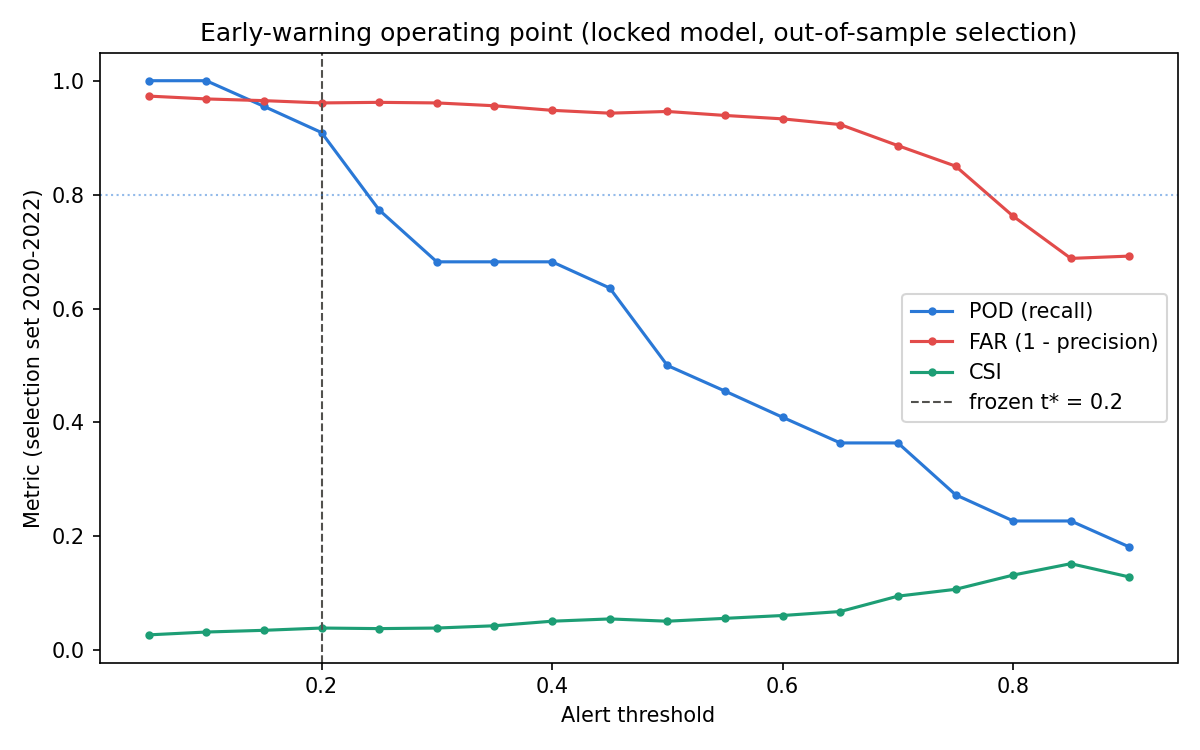
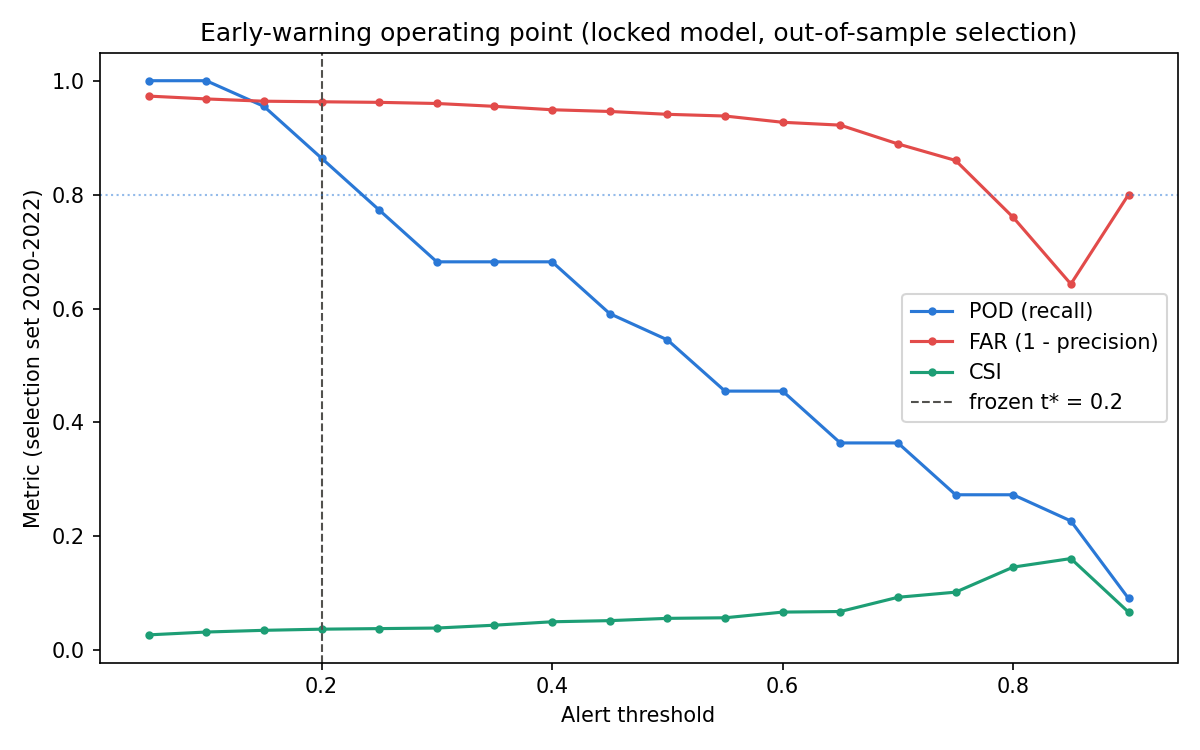
Docs: leak-free numbers; withdraw t=0.60 lift; mark results not re-run
Claude-Session: https://claude.ai/code/session_019qugKZoFUV2rvdqeagrEFM

diff --git a/notes/S1_NUMBERS_SHEET.md b/notes/S1_NUMBERS_SHEET.md
@@ -1,4 +1,4 @@
-# Current numbers on the lab-consistent label (S1), 2026-09-23
+# Current numbers on the lab-consistent label (S1), leak-free (2026-09-28)
 
 Every number here comes from a re-run output file on the default (S1) path. The source file is
 given for each group. The rationale and history are in `notes/LABEL_REBUILD_PREREG.md` §§10-15.
@@ -19,60 +19,72 @@ temporary low in 2012-2017 (lab exceedance share 0.03-0.07, against 0.10-0.23 be
 after). The TMDL attribution was withdrawn on 2026-09-05; the "lab-change" reading was withdrawn
 on 2026-09-23.
 
-## Headline, 28-day label, single split (`data/test_predictions.csv`, `data/label_rebuild_results.csv`)
-- Test 2023-2025: 1,034 station-days, 65 events, base rate **6.3%** (was 7.2%).
-- AUC **0.804** [0.706, 0.878] (was 0.815).
-- At t=0.60: precision **0.316** [0.179, 0.424] (was 0.500); recall **0.477** (was 0.486);
-  **31 TP / 67 FP / 34 FN** (was 36/36/38 of 74); lift **5.03** [3.50, 6.88] (was 6.99).
-- Training bloom rate **5.5%** (was 22.7%); validation 3.1%.
-- Lab-only check S4: AUC **0.782 [0.595, 0.921]** on 161 test rows / 15 events. It is too small to
-  stand alone until DEEP's post-June-2024 lab data arrive.
-- All seven pre-registered predictions were right.
+## Leak fix, 2026-09-28 (read this first)
+Four locked features were anomalies against full-record (1993-2025) climatologies, so test-period
+data leaked into training rows: `chl_climatology`, `chl_anomaly` (station-month chlorophyll) and
+`tidal_gt_anom`, `tidal_msl_anom` (monthly tides). They are now causal: each row uses only data dated
+strictly before it (`label_rebuild.py causal_climatology`, `add_tidal_features.py`). The 28-day label
+is now right-censored (windows past a station's last visit are dropped, not scored 0), and its
+operating threshold is chosen on validation by the pre-registered rule. The fixes were first found on
+the `worktree-climatology-fix` branch (2026-08-26) and never merged; that branch is archived as a tag.
+Numbers marked **(pre-leak-fix, not re-run)** below come from the 2026-09-23 run.
 
-## Per-station, western five, global t=0.60 (`data/rerun_station_specific_models.log`)
+## Headline, 28-day label, single split (`data/test_predictions_S1.csv`, `data/rerun2_*.log`)
+- Test 2023-2025: **951** station-days (83 unresolvable windows dropped), **65** events, base **6.8%**.
+- AUC **0.789** [0.690, 0.864] (station-year clustered bootstrap). Before the fix: 0.804 on 1,034 rows.
+- **Operating threshold (pre-registered rule on validation: highest t with 2020-22 POD >= 0.80):
+  t* = 0.25** (validation POD 0.848). Test: precision **0.119** [0.072, 0.166], recall **0.846**
+  [0.706, 0.950], lift **1.74** [1.46, 2.04]; 55 TP / 408 FP / 10 FN.
+- **t = 0.60 is withdrawn as an operating point:** it was picked on the 2023-25 test sweep, so its
+  numbers are not independent. For reference only, at 0.60: precision 0.329 [0.171, 0.444], recall
+  0.415, lift 4.82 [3.13, 6.76] (was 0.316 / 0.477 / 5.03).
+- Significance (exploratory, not pre-registered): block (station) permutation p < 0.001; better than a
+  month-of-year baseline by +0.093 AUC [-0.008, +0.207], one-sided p = 0.033. Within-season timing
+  (station-year shift p = 0.06; June-Sept p = 0.64) was measured before the fix, not re-run.
+- Training bloom rate 5.5%; validation 3.1%.
+- Lab-only check S4: AUC **0.781** on 161 test rows / 15 events; at its validation t* = 0.25,
+  precision 0.224, recall 0.733, lift 2.41. Too small to stand alone.
+
+## Per-station, western five, global t=0.60 (`data/rerun2_station_specific_models.log`)
+Reference only (0.60 was a test-chosen threshold).
 | Station | Base rate | Precision | Recall | TP/FP/FN |
 |---|---|---|---|---|
-| A4 | 20.0% | 0.333 | 0.875 | 7/14/1 |
-| B3 | 20.0% | 0.333 | 0.625 | 5/10/3 |
+| A4 | 20.0% | 0.368 | 0.875 | 7/12/1 |
+| B3 | 20.0% | 0.357 | 0.625 | 5/9/3 |
 | C1 | 12.5% | 0.444 | 0.800 | 4/5/1 |
 | 01 | 16.7% | 0.500 | 0.667 | 2/2/1 |
-| 02 | 27.8% | 0.429 | 0.600 | 3/4/2 |
+| 02 | 27.8% | 0.500 | 0.400 | 2/2/3 |
 
-No western station and strategy clears precision > 0.50 with recall > 0.40. The old C1 1.000 is gone.
+No western station and strategy clears precision > 0.50 with recall > 0.40.
 
 ## 21-day operating point
 - Locked fit ≤2019, test 2023-25 station-day (`data/reference_baselines.csv`): 954 rows, 43 events,
-  base 4.5%. Model at t*=0.35: precision **0.117**, POD **0.744**, FAR 0.883, lift **2.59** (was
-  0.132 / 0.917 / 2.63 on 956 rows / 48 events). Against always-alert: lift difference +1.59
-  [1.07, 2.22], clearly better. Persistence: precision 0.164, POD 0.279, lift 3.65. Against
-  climatology it was **not tested fairly under S1**: climatology's own validation-chosen threshold
-  degenerated to t=0, so it equals always-alert. Keep the original statement, "not clearly better
-  than climatology".
-- Walk-forward CV predictions at t*=0.35, test 2023-25 (`warning_robustness.py`): POD **0.791**
-  [0.636, 0.906], precision **0.114** [0.063, 0.163], FAR 0.886, 34 TP / 265 FP / 9 FN, base 4.2%,
-  lift ~2.7 (was POD 0.875, precision 0.125, base 4.6%).
-- **Open decision:** re-applying the pre-registered "highest t with CV-selection POD ≥ 0.8" rule
-  on S1 gives t*=**0.20** (test POD 0.907, precision 0.072). Deploy keeps the frozen 0.35 until the
-  user decides. Say "open" wherever t* is discussed.
-- Pooled 21-day rolling-origin CV (`rolling_origin_cv.py --horizon 21`): AUC **0.772**, 3,653 rows /
-  121 events, test years 2016-2025 (was 0.852, 4,040 / 156, 2015-2025).
+  base 4.5%. Model at t*=0.35: precision **0.112**, POD **0.628**, FAR 0.888, lift **2.48** (before the
+  fix 0.117 / 0.744 / 2.59). Against always-alert: +1.45 [0.78, 2.20], clearly better. Persistence:
+  precision 0.164, POD 0.279, lift 3.65. Climatology: not tested fairly (its validation threshold
+  degenerates to t=0). Keep "not clearly better than climatology".
+- Walk-forward CV predictions at t*=0.35, test 2023-25 (`warning_robustness.py`): POD **0.698**
+  [0.500, 0.836], precision **0.111** [0.057, 0.164], FAR 0.889, 30 TP / 240 FP / 13 FN, base 4.2%,
+  lift ~2.6 (before the fix 0.791 / 0.114).
+- **Open decision (unchanged):** the pre-registered POD ≥ 0.8 rule gives t*=**0.20** (test POD
+  **0.837**, precision **0.071**). Deploy keeps 0.35 until the user decides.
+- Pooled 21-day rolling-origin CV (`rolling_origin_cv.py --horizon 21`): AUC **0.759**, 3,653 rows /
+  121 events (before the fix 0.772).
 
 ## Basin level
-- Basin-day (`reference_baselines.csv`): model t=0.65, lift **2.14** (41 days, 9 events);
-  persistence 2.10; against always-alert +0.43 [−1.00, 1.77], not clear (was model 1.37, persistence
-  1.81, 12 events). Say "a tie with persistence".
-- Basin search (`data/basin_search_result.csv`, 912 cells, 200-shuffle null): best validation lift
-  **2.05×** at the **70.5th percentile** of the null (median 1.79×, 95th percentile 2.86×): inside
-  the null, so the search found noise. Test lift 1.56× (was 1.84× at the 52nd percentile, null median
-  1.83×, 95th 3.01×).
+- Basin-day (`reference_baselines.csv`): model t=0.65, lift **1.63** (41 days, 9 events); persistence
+  2.10; against always-alert +0.14 [−1.00, 1.45], not clear (before the fix 2.14). Say "a tie with
+  persistence".
+- Basin search **(pre-leak-fix, not re-run)**: best validation lift 2.05× at the 70.5th percentile of
+  the null, inside it: the search found noise.
 
-## Decision value, 8 visits/month (`data/decision_value.csv`)
+## Decision value, 8 visits/month (`data/decision_value.csv`) **(pre-leak-fix, not re-run)**
 - LIS: calendar **17.8** [9.6, 55.0] → alert-directed top-V **9.7** [5.5, 26.6] visits per bloom;
   causal 7.8 [3.9, 40.4]; climatology **11.2** [5.7, 53.2]; share caught 0.28 → 0.51; **43** blooms
   (was 15.4 → 8.3, climatology 9.3, 0.29 → 0.54, 48 blooms).
 - Narragansett unchanged: 3.81 → 1.45, climatology 1.76.
 
-## IEC zero-shot transfer (`data/iec_zero_shot_results.csv`, primary 2020-25 onset, 949 rows, 126 events)
+## IEC zero-shot transfer **(pre-leak-fix, not re-run)** (`data/iec_zero_shot_results.csv`, primary 2020-25 onset, 949 rows, 126 events)
 - Lift **1.57** [1.41, 1.75]; AUC **0.707** [0.656, 0.760] (was 1.84 [1.59, 2.11], AUC 0.732).
 - Station-month climatology: lift 1.50, AUC 0.733. It **transfers better than chance and no better
   than a calendar.** 4 of 13 stations have a lift interval above 1 (was 5 of 13). It is inside the
@@ -80,7 +92,7 @@ No western station and strategy clears precision > 0.50 with recall > 0.40. The 
 - IEC chlorophyll method: Standard Methods 10200H through 2016, both in 2017, EPA 445.0 from 2018
   on. That is before the 2020-25 window, so the transfer is unaffected.
 
-## Class overlap and rarity (`data/lr_geometry_summary.csv`, onset rows, 21 d)
+## Class overlap and rarity (`data/lr_geometry_summary.csv`, onset rows, 21 d) **(pre-leak-fix, not re-run)**
 - LIS: base **0.026**, AUC 0.770, OVL **0.620**, precision 0.055, POD 0.667 (was 0.036, 0.855, 0.445,
   0.112, 0.868).
 - Narragansett unchanged: 0.347, 0.810, OVL 0.516, precision 0.641.
@@ -92,7 +104,7 @@ No western station and strategy clears precision > 0.50 with recall > 0.40. The 
   The fork's LIS reference is now precision 0.117, AUC 0.825 (21-day station-day test), base 0.045,
   lift 2.59.
 
-## Point of no return (`data/ponr_rows.csv`)
+## Point of no return (`data/ponr_rows.csv`) **(pre-leak-fix, not re-run)**
 544 pre-onset observations / 153 events (was 617). Analogue risk peak **0.42**, median 0.02 (was 0.62 /
 0.04). Summer model counterfactual (M1 nutrients) 42% of events "locked in" → **0%** once physics
 can vary (was 65% → 0%). The conclusion is unchanged: no point of no return.

diff --git a/README.md b/README.md
@@ -10,25 +10,31 @@ Vihaan Goyal, Westhill High School, Stamford, Connecticut
 
 ## What this project shows
 
-A regularized logistic regression forecasts chlorophyll-a exceedances (>10 ug/L within 21 days of a station visit) across Long Island Sound with useful ranking skill (pooled out-of-sample AUC 0.772; was 0.852 on the original sensor label), but alert precision is capped near 0.12 regardless of model class, feature set, threshold, era, or spatial alerting policy. Thirteen pre-registered improvement attempts were rejected (sensor label; not re-run). The central finding is that this precision ceiling is mechanistic, not a modeling failure:
+A regularized logistic regression forecasts chlorophyll-a exceedances (>10 ug/L within 21 days of a station visit) across Long Island Sound with useful ranking skill (pooled out-of-sample AUC 0.759 after the 2026-09-28 leak fix; 0.772 before it, 0.852 on the original sensor label), but alert precision is capped near 0.12 regardless of model class, feature set, threshold, era, or spatial alerting policy. Thirteen pre-registered improvement attempts were rejected (sensor label; not re-run). The central finding is that this precision ceiling is mechanistic, not a modeling failure:
 
 1. **Rarity.** Exceedances are rare in the test years (4.5% of station-days at the 21-day horizon), and rare events cap precision regardless of model. The low precision is mostly rarity, not only (the Sound also separates the classes less well, overlap 0.62 against 0.52 in Narragansett Bay). The old "2014 cliff" (sensor-label bloom share 0.42–0.59 in 2009–2013 → 0.03–0.11 from 2014) was mostly a CTD sensor scale change (SeaBird to YSI EXO2 around 2009/2010), confirmed by CT DEEP; the lab record has no 2014 step, but it does show a real, temporary low in 2012–2017. It is not a TMDL effect and not a DEEP lab change.
 2. **Sampling.** The median gap between chlorophyll measurements is 21 days, equal to the forecast horizon. 48% of inter-sample gaps exceed the horizon, so many predicted events cannot even be verified.
 
-Across eras and label definitions the system delivered a roughly constant 2.5 to 3.4x precision lift over the base rate on the sensor label (not re-run); on the rebuilt label the 21-day station-day lift is 2.59x. No intervention has moved that multiplier.
+Across eras and label definitions the system delivered a roughly constant 2.5 to 3.4x precision lift over the base rate on the sensor label (not re-run); on the rebuilt, leak-free label the 21-day station-day lift is 2.48x. No intervention has moved that multiplier.
 
 ## The early warning system
+
+**Leak fix (2026-09-28).** Four of the 35 features (`chl_climatology`, `chl_anomaly`, `tidal_gt_anom`,
+`tidal_msl_anom`) were anomalies against climatologies averaged over the whole 1993-2025 record, so
+test-period data leaked into training rows. They now use only data dated before each row
+(`label_rebuild.py`, `add_tidal_features.py`; fix first found on the `worktree-climatology-fix`
+branch, now archived as a tag). All numbers below are re-run on the leak-free features.
 
 Operating point frozen by a pre-registered rule (highest threshold with out-of-sample 2020 to 2022 POD >= 0.8), evaluated once on out-of-sample 2023 to 2025 (walk-forward CV predictions, rebuilt label):
 
 | Metric | Value | 95% CI (clustered bootstrap) |
 |---|---|---|
-| POD (recall) | 0.791 (34 of 43 events) | [0.636, 0.906] |
-| FAR (1 - precision) | 0.886 | not re-run |
-| Precision | 0.114 (~2.7x over 4.2% base rate) | [0.063, 0.163] |
+| POD (recall) | 0.698 (30 of 43 events) | [0.500, 0.836] |
+| FAR (1 - precision) | 0.889 | [0.836, 0.943] |
+| Precision | 0.111 (~2.6x over 4.2% base rate) | [0.057, 0.164] |
 | CSI | 0.122 (sensor label; not re-run) | [0.075, 0.169] |
 
-Alert threshold t* = 0.35, **an open decision**: re-applying the pre-registered rule on the rebuilt label gives t* = 0.20 (test POD 0.907, precision 0.072); deploy keeps the frozen 0.35 until that is decided. On the original sensor label the table read POD 0.875, precision 0.125 over a 4.6% base rate, and selection-to-test transfer was near exact (POD 0.864 -> 0.875). At the 21 recurring-bloom stations (defined on pre-test data), detection is 91% at precision 0.137 (sensor label; not re-run). A station-gated alert policy was tested and rejected: false alarms arise at bloom-prone stations during non-bloom periods, so the ceiling is temporal, not spatial (sensor label; not re-run). A sustained-exceedance secondary label raises the lift to 3.4x but leaves precision near 0.10 (sensor label; not re-run).
+Alert threshold t* = 0.35, **an open decision**: re-applying the pre-registered rule on the rebuilt label gives t* = 0.20 (test POD 0.837, precision 0.071); deploy keeps the frozen 0.35 until that is decided. On the original sensor label the table read POD 0.875, precision 0.125 over a 4.6% base rate, and selection-to-test transfer was near exact (POD 0.864 -> 0.875). At the 21 recurring-bloom stations (defined on pre-test data), detection is 91% at precision 0.137 (sensor label; not re-run). A station-gated alert policy was tested and rejected: false alarms arise at bloom-prone stations during non-bloom periods, so the ceiling is temporal, not spatial (sensor label; not re-run). A sustained-exceedance secondary label raises the lift to 3.4x but leaves precision near 0.10 (sensor label; not re-run).
 
 The framing rationale: a missed bloom carries ecological and shellfish-industry costs, while a false alarm prompts a water sample at a station where, half the time, no sample would otherwise occur in the window.
 
@@ -81,7 +87,7 @@ The `data/` folder is not in git. Reproduce it from the public sources above; th
 
 ```
 conda activate base
-python src/models/rolling_origin_cv.py --horizon 21      # pooled AUC 0.772 (S1 default)
+python src/models/rolling_origin_cv.py --horizon 21      # pooled AUC 0.759 (S1 default, leak-free)
 python warning_operating_point.py --target-pod 0.8 --test-from-cv
 python warning_robustness.py --t-star 0.35
 ```
@@ -110,18 +116,18 @@ persistence) with a paired station-year clustered bootstrap of the lift differen
 
 | Level | base rate | model lift | clearly beats |
 |---|---|---|---|
-| Station-day (n=954, 43 events) | 0.045 | **2.59x** | always-alert only, +1.59 [+1.07, +2.22] |
-| Basin-day (n=41, 9 events) | 9 of 41 | 2.14x | nothing; +0.43 [-1.00, +1.77] vs always-alert |
+| Station-day (n=954, 43 events) | 0.045 | **2.48x** | always-alert only, +1.45 [+0.78, +2.20] |
+| Basin-day (n=41, 9 events) | 9 of 41 | 1.63x | nothing; +0.14 [-1.00, +1.45] vs always-alert |
 
-(Rebuilt label, t*=0.35; was 2.63x on 956 rows / 48 events, and basin 1.37x on 12 events, on
+(Rebuilt, leak-free label, t*=0.35; before the 2026-09-28 leak fix 2.59x and basin 2.14x; was 2.63x on 956 rows / 48 events, and basin 1.37x on 12 events, on
 the original sensor label.)
 
 At station-day level the model is clearly better than no information. Persistence
-scores a higher lift (3.65x) at a much lower POD (0.279 against the model's 0.744).
+scores a higher lift (3.65x) at a much lower POD (0.279 against the model's 0.628).
 Climatology was not tested fairly on the rebuilt label (its validation-chosen threshold
 degenerated to t=0, i.e. always-alert), so the original statement stands: not clearly
-better than climatology. At basin level the model (2.14x) and persistence (2.10x) are a
-tie.
+better than climatology. At basin level the model (1.63x) and persistence (2.10x) are a
+tie (neither interval excludes the other).
 
 **Mechanism:** basin aggregation raises the base rate from 0.045 to 9 of 41 basin-days,
 and lift = precision / base_rate. The aggregation that buys verification coverage spends

diff --git a/notes/SCIENTIFIC_METHOD.md b/notes/SCIENTIFIC_METHOD.md
@@ -163,7 +163,7 @@ surface CHLA only. Its result is test AUC **0.782 [0.595, 0.921]**, lift 5.0
 covers only 2023 to May 2024. Both predictions were right (P6, P7). The interval is
 wider than 0.30, so under the pre-registered rule S4 is "consistent with S1, not yet
 measurable on its own". **Reporting from now on:** the label definition is the lab
-(S4). The skill estimate is S1's, AUC 0.804 [0.706, 0.878] and lift 5.0 [3.5, 6.9], on
+(S4). The skill estimate is S1's, AUC 0.804 [0.706, 0.878] and lift 5.0 [3.5, 6.9] *(superseded 2026-09-28 by the leak fix: AUC 0.789, and lift 5 withdrawn because t=0.60 was test-chosen; see the entry of that date)*, on
 the full 2023-2025 test, with S4's interval beside it. S4 becomes final when DEEP
 releases lab chlorophyll after June 2024. *Open design question:* lab chlorophyll
 arrives months after sampling, so a real-time forecast can't use lab-based
@@ -923,6 +923,7 @@ LEDs, a passive buzzer and a relay (PN2222A + 1N4007 flyback diode on D10).
 **Significance checks on the LIS model (2026-09-28, exploratory, not pre-registered).** On the S1
 test set (1,034 station-days, 65 positive rows = 38 independent episodes; predictions reproduce
 exactly from `final_evaluation_threshold_sweep.py`):
+- *(These checks used the pre-leak-fix predictions; the corrected re-run is in the "Leak fix" entry below.)*
 - Better than chance: AUC 0.804, p < 0.0001 (Mann-Whitney; label permutation; circular shift within station over 2023-2025). Precision @0.60 vs the 6.3% base rate: p < 10⁻¹³.
 - Better than a month-of-year baseline: AUC 0.80 vs 0.71, +0.09 [−0.01, +0.20] (station-block bootstrap), one-sided p = 0.03. The baseline used the test set's own monthly rates, so it's generous to the baseline.
 - **Timing within a season is not shown:** with labels shifted within each station-year the null reaches AUC 0.81 (p = 0.06); within June-September only, p = 0.64.
@@ -960,3 +961,21 @@ exactly from `final_evaluation_threshold_sweep.py`):
 - The silicate unit (SiO₂ vs Si) is inferred and is to be confirmed with DEEP.
 
 **Peroxide method: calcium peroxide swapped for sodium percarbonate (2026-09-28).** The loop doses liquid 3% H₂O₂ by pump; it is stable for weeks, which suits autonomy. The screen adds sodium percarbonate (pure oxygen bleach), the active ingredient of registered pond algaecides, at the same peroxide dose (0.8 mg/L H₂O₂ ≈ 2.9 mg/L), with a matched sodium carbonate control. The calcium peroxide "tea bag" is dropped: percarbonate dissolves in minutes, so a bag can't be retrieved, and peroxide breaks down to water and oxygen in 1-2 days anyway, so the loop controls exposure by dose and timing. Updated in the method file, plan, procedures, materials list and Form 3.
+
+**Leak fix and threshold correction (2026-09-28).** A review of the never-merged `worktree-climatology-fix` branch (2026-08-26) found two defects still live in `main`:
+1. **Feature leak.** `chl_climatology`, `chl_anomaly`, `tidal_gt_anom` and `tidal_msl_anom` were anomalies against climatologies averaged over all of 1993-2025, so test-year data leaked into training rows. They now use only data dated before each row. The 3 earliest years of tidal anomalies and 1.6% of chlorophyll climatology cells are left empty (imputed).
+2. **Label and threshold.** The 28-day label scored unresolvable windows (running past a station's last visit) as "no bloom"; they are now dropped (83 test rows). The headline threshold 0.60 had been picked on the test sweep, so it is withdrawn. The project's pre-registered rule (highest t with validation POD ≥ 0.8) now sets it.
+
+**Results (test 2023-25, S1):**
+- AUC **0.789 [0.690, 0.864]** (was 0.804).
+- At the validation t* = 0.25: precision **0.119**, recall **0.846**, lift **1.74 [1.46, 2.04]**.
+- Still better than chance (block permutation p < 0.001) and than a month-of-year baseline (+0.093 AUC, one-sided p = 0.033).
+- At the old 0.60, lift is 4.82, but that point is not an independent estimate.
+- The 21-day system barely moved: pooled CV AUC 0.759 (was 0.772); at t* = 0.35, precision 0.111, POD 0.698 (was 0.114 / 0.791); station-day lift 2.48 (was 2.59).
+
+**Meaning:** ranking skill was real and survives. The "5× lift" headline came from a threshold tuned on the test years. The honest, validation-chosen high-recall setting catches 85% of blooms at 1.7× lift.
+
+**Also:**
+- Declared 20 missing dependencies (including the hardware scripts' pyserial and trimesh) and added `tests/check_dependencies.py`.
+- Noted a remaining within-month look-ahead in the monthly tidal values, not yet fixed.
+- Basin search, decision value, IEC transfer, rarity/overlap and point-of-no-return are marked "pre-leak-fix, not re-run" in `notes/S1_NUMBERS_SHEET.md`.

diff --git a/CLAUDE.md b/CLAUDE.md
@@ -12,8 +12,8 @@ python src/features/add_tidal_features.py   # writes data/hab_features_tidal.csv
 python src/models/label_rebuild.py build     # writes data/hab_features_tidal_S1.csv
 # Prefix HAB_FEATURES_CSV=data/hab_features_tidal.csv to reproduce the original sensor label.
 
-# Final evaluation with threshold sweep (test set 2023–2025)
-python src/models/final_evaluation_threshold_sweep.py
+# Final evaluation (test 2023–2025); add --no-censor to reproduce the old label
+python src/models/final_evaluation_threshold_sweep.py --tag _S1
 
 # Daily inference for a given date (writes data/daily_predictions.csv)
 python src/deploy/daily_inference.py --date 2022-07-19
@@ -31,19 +31,26 @@ BASE + tidal_gt_anom + tidal_msl_anom + chl_roll14_mean + chl_roll21_mean +
 sal_lag2 + sal_lag3 + sal_lag4 + percent_saturation + max_gust_3d.
 Requires `data/gust_features_daily.csv` (`python src/features/add_gust_features.py`).
 
-Test (2023–2025, 28-day label, S1): AUC 0.804 [0.706, 0.878] | base rate 6.3% |
-Precision @0.60 0.316 [0.179, 0.424] | Recall @0.60 0.477 | 31 TP / 67 FP / 34 FN |
-Lift 5.03 [3.50, 6.88].
+Test (2023–2025, 28-day label, S1, leak-free, right-censored): 951 rows, 65 events, base 6.8% |
+AUC 0.789 [0.690, 0.864] | at the pre-registered validation threshold t* = 0.25: precision 0.119,
+recall 0.846, lift 1.74 [1.46, 2.04]. The old t = 0.60 (lift ~5) was picked on the test years and is
+withdrawn as an operating point.
 
-- S1 replaced the sensor label on 2026-09-23, because the CTD fluorometer read 2-5× the lab values and DEEP advised using the lab data.
-- The old sensor-label numbers (AUC 0.815) are superseded.
-- The per-station table, the lab-only check S4 and the full story are in `notes/S1_NUMBERS_SHEET.md` and `notes/LABEL_REBUILD_PREREG.md`.
+- 2026-09-28 leak fix: `chl_climatology`, `chl_anomaly`, `tidal_gt_anom` and `tidal_msl_anom` used
+  full-record (1993-2025) climatologies. They are now causal (data before each row only). Keep it that
+  way: any climatology or anomaly feature must use only earlier data.
+- S1 replaced the sensor label on 2026-09-23 (the CTD fluorometer read 2-5× the lab; DEEP advised the
+  lab data). Sensor-label numbers (AUC 0.815) are superseded.
+- The 21-day operating point, per-station table, S4 check and which results are not yet re-run are in
+  `notes/S1_NUMBERS_SHEET.md` (the only source for current numbers); history in
+  `notes/LABEL_REBUILD_PREREG.md`.
 
 ## Key scripts
 
 | Script | Purpose |
 |--------|---------|
-| `src/models/final_evaluation_threshold_sweep.py` | Final test-set evaluation; threshold sweep |
+| `src/models/final_evaluation_threshold_sweep.py` | 28-day evaluation; validation-chosen threshold; test sweep for display only |
+| `tests/check_dependencies.py` | Lists imports missing from `environment.yml` |
 | `src/models/station_specific_models.py` | Per-station threshold tuning (Strategy B) |
 | `src/models/ablation_study.py` | Feature ablation |
 | `src/deploy/daily_inference.py` | Daily inference pipeline + alert emails |

diff --git a/notes/BENCHMARKS.md b/notes/BENCHMARKS.md
@@ -180,8 +180,9 @@ Different question, stricter evaluation; never "better".
    limited by verification density rather than model quality.
 6. Comparison context for AUC: C-HARM nowcasts score AUC 0.33-0.77
    against pier observations; on the rebuilt (S1) label the LIS system
-   scores 0.804 (28-day single-split test) / 0.772 (21-day rolling-origin
-   CV); it was 0.815 / 0.852 on the original sensor label. Different target and
+   scores 0.789 (28-day single-split test) / 0.759 (21-day rolling-origin
+   CV) after the 2026-09-28 leak fix (0.804 / 0.772 before it); it was 0.815 / 0.852 on the
+   original sensor label. Different target and
    region, but the LIS system operates within the skill range of the
    pre-operational state of the art while forecasting 21 days ahead
    rather than nowcasting.

diff --git a/notes/KEY_NUMBERS.md b/notes/KEY_NUMBERS.md
@@ -1,6 +1,9 @@
 # KEY_NUMBERS.md — HAB Bloom Predictor Reference
 
 Corrected pipeline. Do NOT use numbers from the OLD docs listed in Section 6.
+**2026-09-28: a feature leak was fixed (full-record climatologies in 4 features) and t=0.60 was
+withdrawn (it was chosen on the test years). The S1 numbers in this file are pre-fix; current values
+are ONLY in notes/S1_NUMBERS_SHEET.md** (headline AUC 0.789, lift 1.74 at the validation t*=0.25).
 Last updated: 2026-09-23 (label rebuilt on the lab scale, S1 now the default; current numbers
 in notes/S1_NUMBERS_SHEET.md, rationale in notes/LABEL_REBUILD_PREREG.md). Numbers not in that
 sheet are marked "(sensor label; not re-run)".
